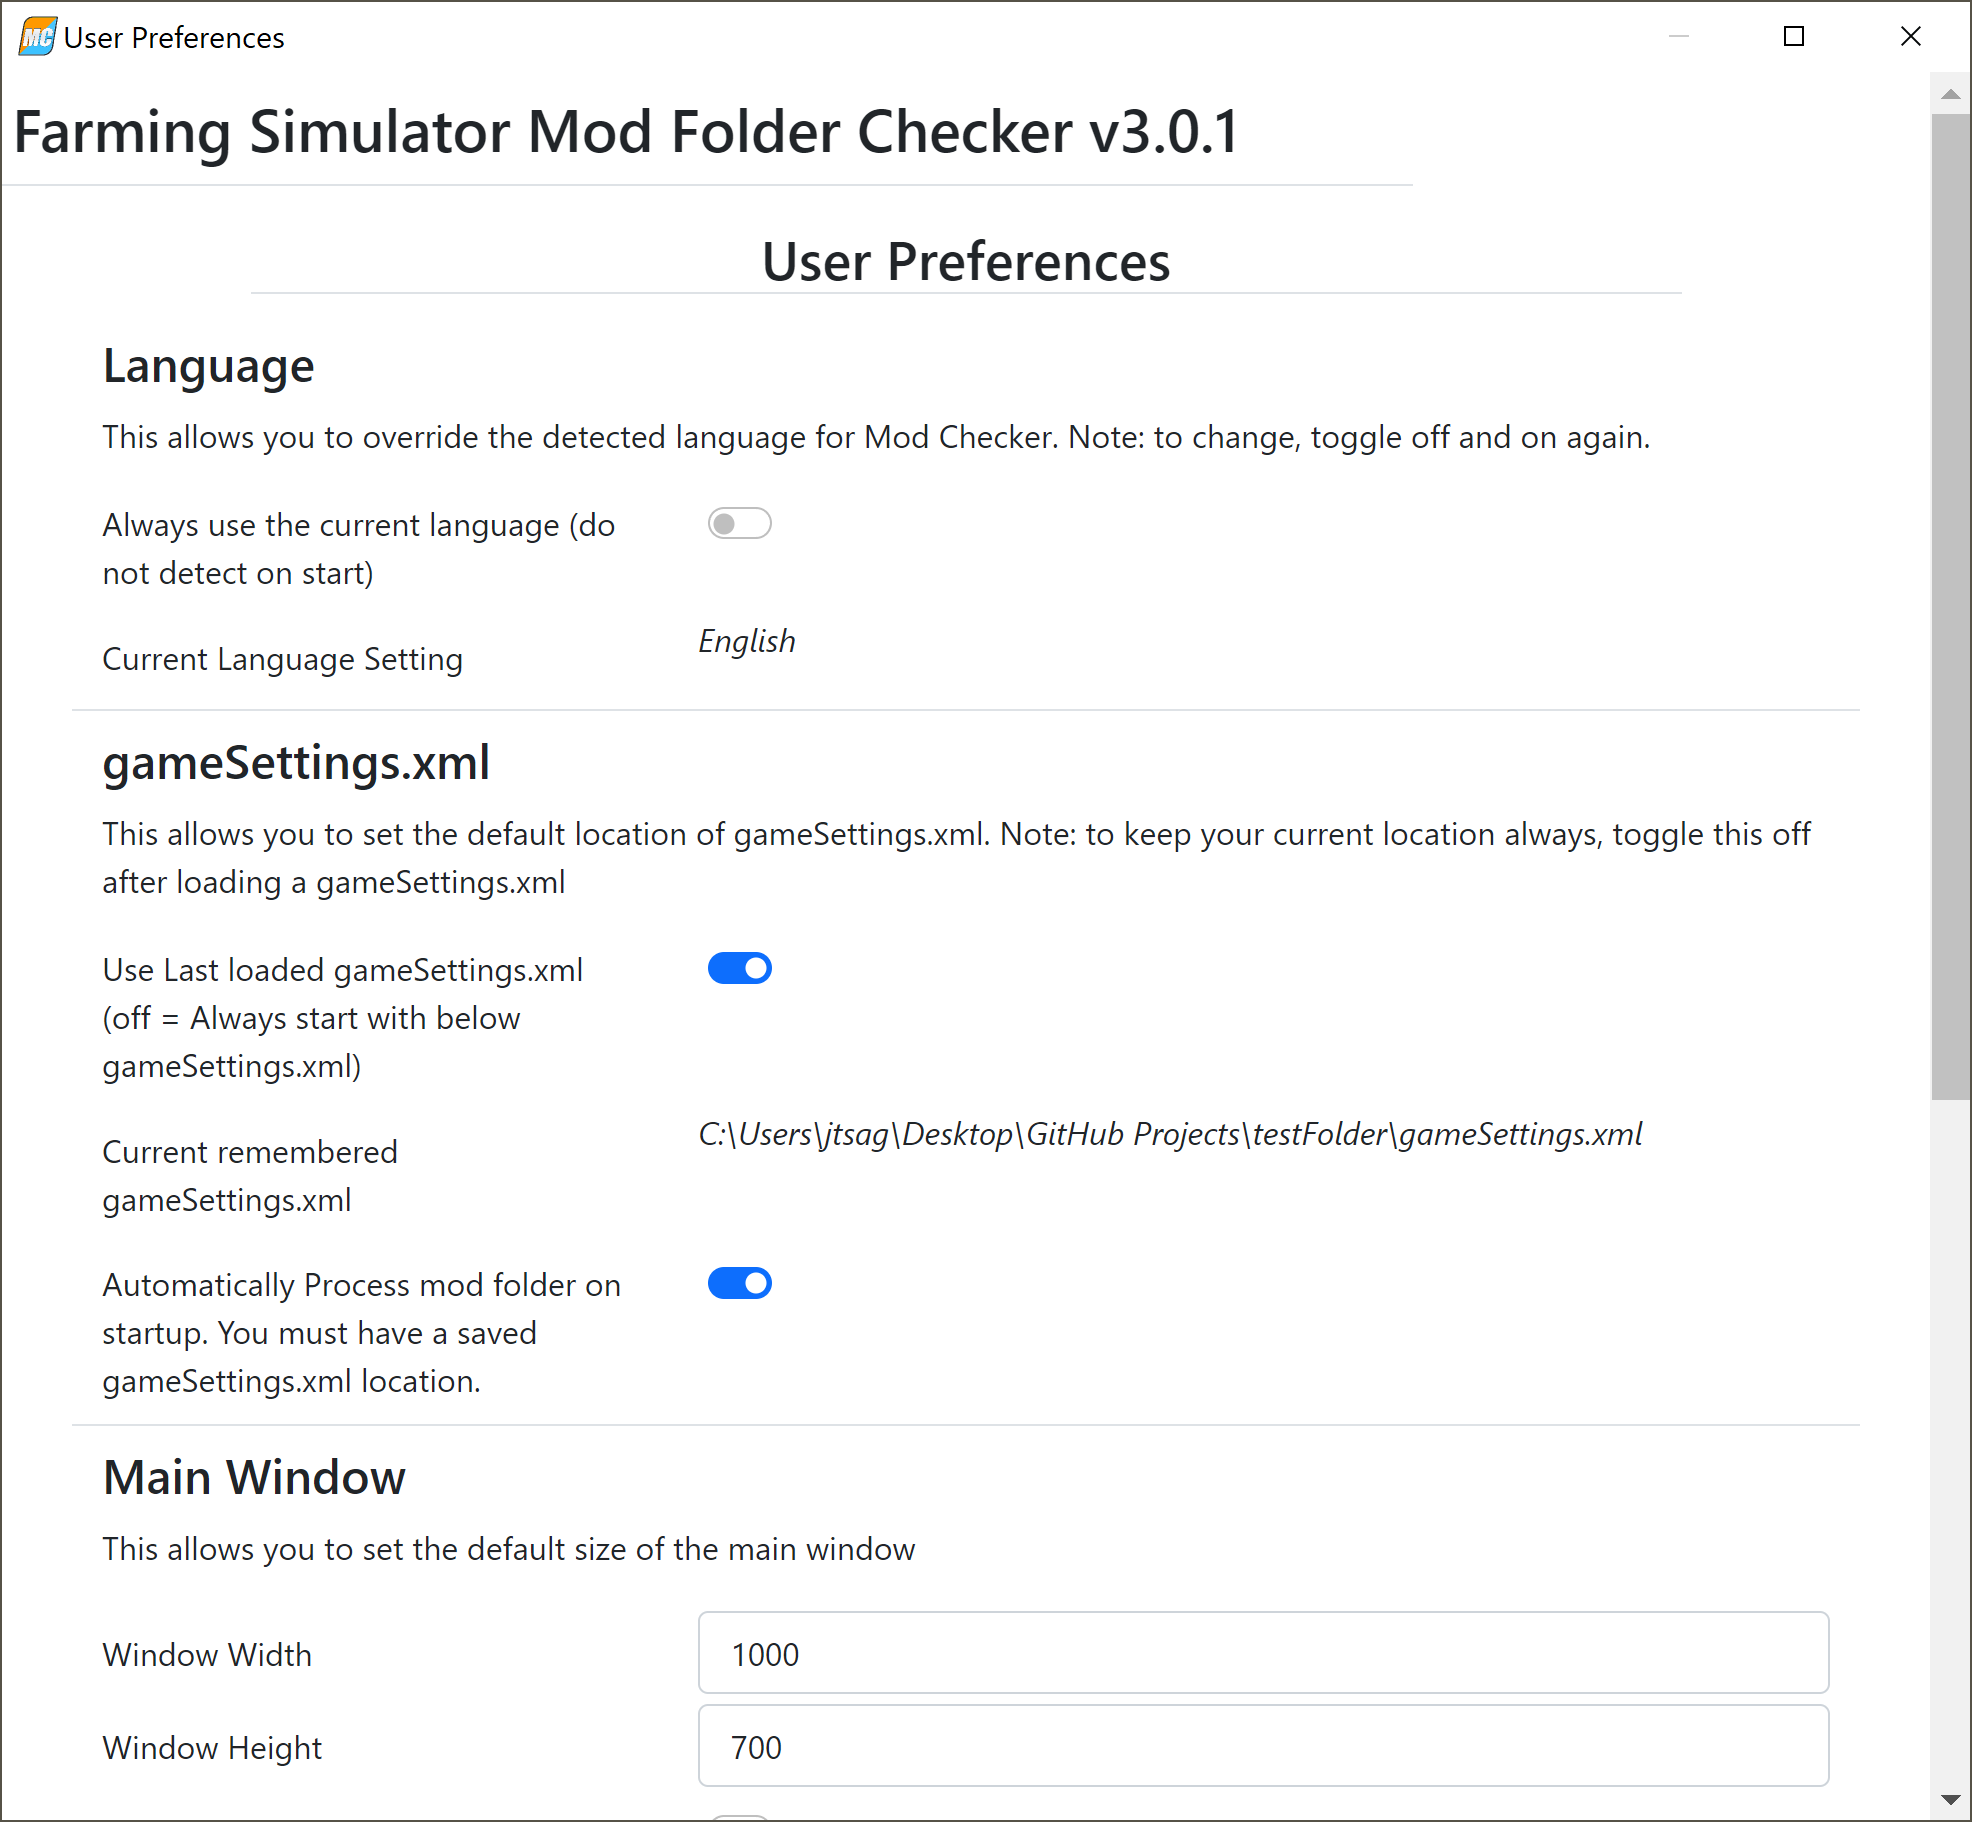
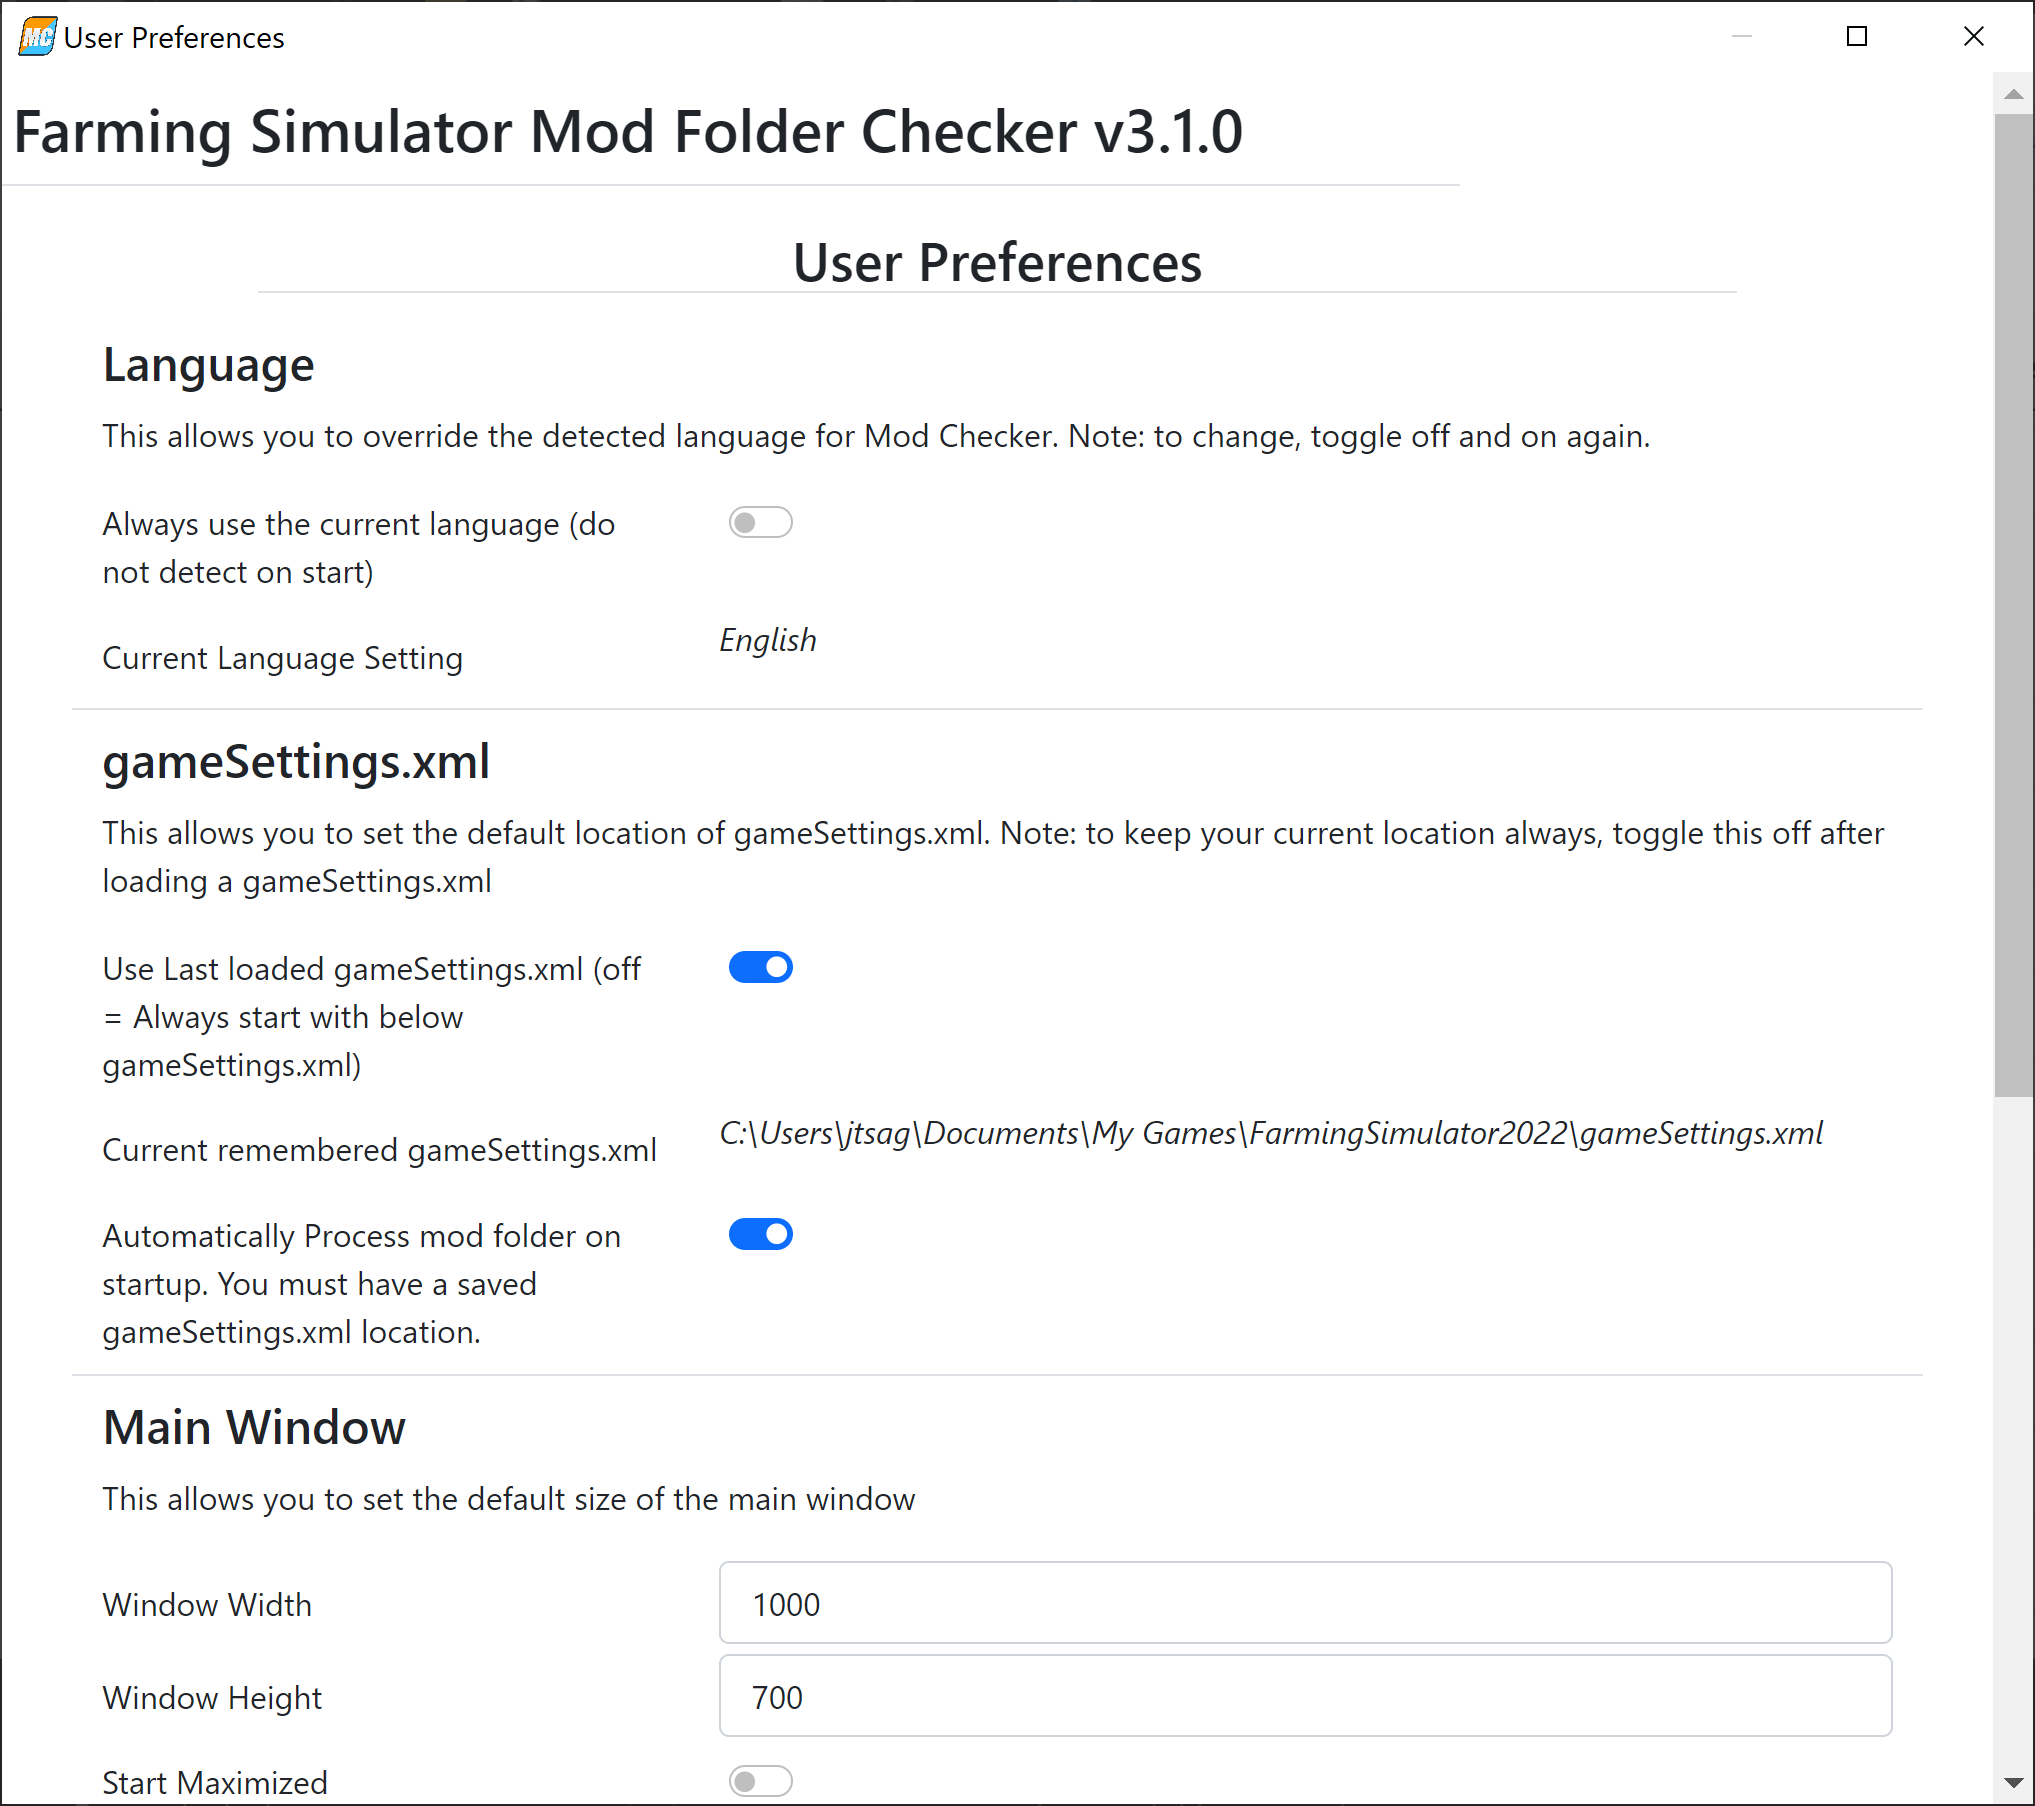
Update UI and screenshots for 3.1.0

diff --git a/renderer/main.html b/renderer/main.html
@@ -140,32 +140,34 @@
 		<div style="margin-top: 95px;" class="tab-content overflow-custom" id="mainTabContent">
 
 			<div class="tab-pane fade show active" id="tab_config_content" role="tabpanel" aria-labelledby="tab_config">
-				<p class="text-center i18n mb-1 pt-3" data-i18n="config_blurb"></p>
-				<h4 class="i18n w-75 mx-auto" data-i18n="config_step_0"></h4>
-				<p class="w-75 mx-auto fw-lighter fst-italic i18n mt-2 ps-2" data-i18n="config_step_0_blurb"></p>
-				<div class="row w-75 mx-auto">
-					<div class="col-6">
-						<input onclick="ipc.setVer2019()" type="radio" class="btn-check" name="fs_ver" id="fs_ver_19" autocomplete="off" checked>
-						<label class="btn btn-sm btn-success w-100" id="fs_ver_19_lab" for="fs_ver_19">2019</label>
+				<p class="i18n text-center px-4 py-1 my-1" data-i18n="config_load_button_blurb"></p>
+				<p class="i18n text-center px-4 py-1 my-1" data-i18n="config_process_button_blurb"></p>
+
+				<div class="row mx-auto">
+					<div class="col-1"></div>
+					<div class="col-2">
+						<img style="margin-top:50%;" class="d-block mx-auto" src="version_icon_19.png" srcset="version_icon_19@2x.png 2x" id="ver_icon_19" onclick="ipc.setVer2022()" />
+						<img style="margin-top:50%;" class="d-block mx-auto" src="version_icon_22.png" srcset="version_icon_22@2x.png 2x" id="ver_icon_22" onclick="ipc.setVer2019()" />
 					</div>
-					<div class="col-6">
-						<input onclick="ipc.setVer2022()" type="radio" class="btn-check" name="fs_ver" id="fs_ver_22" autocomplete="off">
-						<label class="btn btn-sm btn-danger w-100" id="fs_ver_22_lab" for="fs_ver_22">2022</label>
+					<div class="col-2">
+						<img style="margin-top:50%;" class="d-block mx-auto" src="arrowDbl.png" srcset="arrowDbl@2x.png 2x" />
 					</div>
+					<div class="col-2">
+						<img src="xml.png" class="d-block mx-auto" srcset="xml@2x.png 2x" id="button_load" onclick="ipc.loadButton()" />
+						<p class="i18n text-center" data-i18n="config_load_button"></p>
+						<img src="folder.png" class="d-block mx-auto" srcset="folder@2x.png 2x" id="button_load_folder" onclick="ipc.loadFolder()" />
+						<p class="i18n text-center" data-i18n="config_load_folder_button"></p>
+					</div>
+					<div class="col-2">
+						<img style="margin-top:50%;" class="d-block mx-auto" src="conarrow.png" srcset="conarrow@2x.png 2x" />
+					</div>
+					<div class="col-2">
+						<img src="scan.png" style="margin-top:50%" class="d-block mx-auto" srcset="scan@2x.png 2x" id="button_process" onclick="ipc.processButton()" />
+						<p class="i18n text-center" data-i18n="config_process_button"></p>
+					</div>
+					<div class="col-1"></div>
 				</div>
 
-				<h4 class="i18n w-75 mx-auto mt-4" data-i18n="config_step_1"></h4>
-				<p class="w-75 mx-auto fw-lighter fst-italic i18n mt-2 ps-2" data-i18n="config_load_button_blurb"></p>
-				<div class="row w-75 mx-auto">
-					<div class="col-6">
-						<button type="button" onclick="ipc.loadButton()" id="button_load" class="btn btn-primary d-block w-100 mx-auto btn-sm i18n" data-i18n="config_load_button"></button>
-					</div>
-					<div class="col-6">
-						<button type="button" onclick="ipc.loadFolder()" id="button_load_folder" class="btn btn-primary d-block w-100 mx-auto btn-sm i18n" data-i18n="config_load_folder_button"></button>
-					</div>
-				</div>
-				
-				
 				<div id="load_error" class="alert alert-danger w-50 mx-auto mt-2 text-center d-none" role="alert">
 					<svg xmlns="http://www.w3.org/2000/svg" width="16" height="16" fill="currentColor" class="align-text-top bi bi-exclamation-diamond-fill" viewBox="0 0 16 16">
 						<path d="M9.05.435c-.58-.58-1.52-.58-2.1 0L.436 6.95c-.58.58-.58 1.519 0 2.098l6.516 6.516c.58.58 1.519.58 2.098 0l6.516-6.516c.58-.58.58-1.519 0-2.098L9.05.435zM8 4c.535 0 .954.462.9.995l-.35 3.507a.552.552 0 0 1-1.1 0L7.1 4.995A.905.905 0 0 1 8 4zm.002 6a1 1 0 1 1 0 2 1 1 0 0 1 0-2z"/>
@@ -175,7 +177,6 @@
 						<path d="M9.05.435c-.58-.58-1.52-.58-2.1 0L.436 6.95c-.58.58-.58 1.519 0 2.098l6.516 6.516c.58.58 1.519.58 2.098 0l6.516-6.516c.58-.58.58-1.519 0-2.098L9.05.435zM8 4c.535 0 .954.462.9.995l-.35 3.507a.552.552 0 0 1-1.1 0L7.1 4.995A.905.905 0 0 1 8 4zm.002 6a1 1 0 1 1 0 2 1 1 0 0 1 0-2z"/>
 					</svg>
 				</div>
-
 				
 				<table class="table w-75 mx-auto table-sm mt-3">
 					<tr>
@@ -189,10 +190,6 @@
 					
 				</table>
 
-				<h4 class="i18n w-75 mx-auto mt-4" data-i18n="config_step_2"></h4>
-				<p class="w-75 mx-auto fw-lighter fst-italic i18n mt-2 ps-2" data-i18n="config_process_button_blurb"></p>
-				<button type="button" id="button_process" onclick="ipc.processButton()" class="disabled btn btn-primary d-block w-75 mx-auto btn-sm i18n" data-i18n="config_process_button"></button>
-				<button type="button" id="open_loading_modal" data-bs-toggle="modal" data-bs-target="#loadingModal" class="d-none"></button>
 			</div>
 
 

diff --git a/renderer/preload-main.js b/renderer/preload-main.js
@@ -406,14 +406,12 @@ ipcRenderer.on('gotGamesActive', (event, list, saveGameText, allText) => {
 // events go to the right place.
 
 ipcRenderer.on('trigger_version', (event, versionNum) => {
-	classRem(['fs_ver_22_lab', 'fs_ver_19_lab'], 'btn-danger')
-	classRem(['fs_ver_22_lab', 'fs_ver_19_lab'], 'btn-success')
 	if ( versionNum === 19 ) {
-		classAdd('fs_ver_19_lab', 'btn-success')
-		classAdd('fs_ver_22_lab', 'btn-danger')
+		classRem(['ver_icon_19'], 'd-none')
+		classAdd(['ver_icon_22'], 'd-none')
 	} else {
-		classAdd('fs_ver_22_lab', 'btn-success')
-		classAdd('fs_ver_19_lab', 'btn-danger')
+		classAdd(['ver_icon_19'], 'd-none')
+		classRem(['ver_icon_22'], 'd-none')
 	}
 })
 
@@ -456,18 +454,14 @@ contextBridge.exposeInMainWorld(
 		},
 		setVer2019 : () => {
 			ipcRenderer.send('setGameVersion', 19)
-			classRem(['fs_ver_22_lab', 'fs_ver_19_lab'], 'btn-danger')
-			classRem(['fs_ver_22_lab', 'fs_ver_19_lab'], 'btn-success')
-			classAdd('fs_ver_19_lab', 'btn-success')
-			classAdd('fs_ver_22_lab', 'btn-danger')
+			classRem(['ver_icon_19'], 'd-none')
+			classAdd(['ver_icon_22'], 'd-none')
 			dataIsLoaded = false
 		},
 		setVer2022 : () => {
 			ipcRenderer.send('setGameVersion', 22)
-			classRem(['fs_ver_22_lab', 'fs_ver_19_lab'], 'btn-danger')
-			classRem(['fs_ver_22_lab', 'fs_ver_19_lab'], 'btn-success')
-			classAdd('fs_ver_22_lab', 'btn-success')
-			classAdd('fs_ver_19_lab', 'btn-danger')
+			classAdd(['ver_icon_19'], 'd-none')
+			classRem(['ver_icon_22'], 'd-none')
 			dataIsLoaded = false
 		},
 		processButton : () => {
